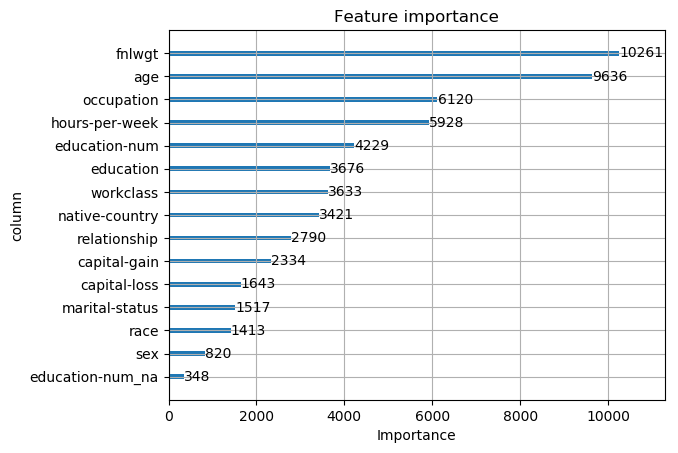
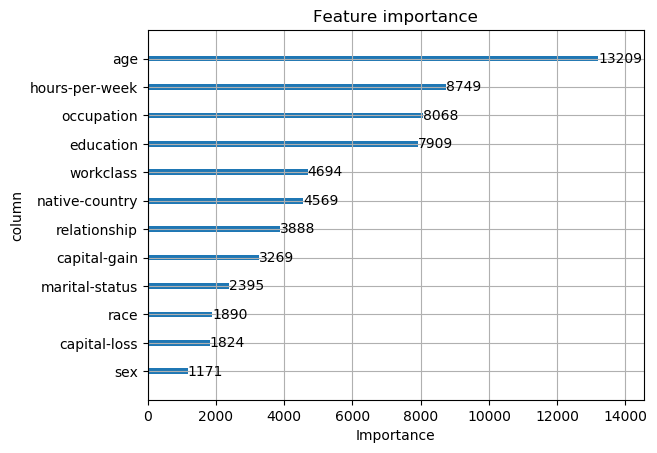
importance update

diff --git a/code/chapter4/interp.py b/code/chapter4/interp.py
@@ -33,10 +33,11 @@ _,valid_ids = next(kf.split(df))
 data = (src.split_by_idx(valid_ids).label_from_df(cols=dep_var).databunch(bs=512))
 learn = tabular_learner(data, layers=[200,200], metrics=accuracy)
 wd=1e-5
-lr = request_lr(learn)
+#lr = request_lr(learn)
+lr=3e-2
 learn.fit_one_cycle(10, lr)#, wd=wd)
-# learn.save('tmp')
-learn.load('tmp')
+learn.save('tmp')
+# learn.load('tmp')
 
 def nn_predict_from_df(X):
     bs=512
@@ -58,6 +59,7 @@ def nn_predict_from_df(X):
 
 def score(X, y):
     y_pred = nn_predict_from_df(X)
+    #pdb.set_trace()
     return log_loss(y, y_pred)
 
 val_x = np.concatenate([learn.data.valid_ds.codes, learn.data.valid_ds.conts],1)
@@ -72,8 +74,6 @@ perm_df = pd.DataFrame({'column': learn.data.train_ds.cat_names+learn.data.train
                         'importance': feature_importances, 'std_error': importance_errors})
 perm_df = perm_df.sort_values('importance', ascending=False)
 perm_df.to_csv('../writing/figures/perm_importance.csv', index=None)
-
-pdb.set_trace()
 
 perm_df['importance'] *= -1
 ax = perm_df.plot.barh(x='column', y='importance', color='blue', alpha=0.6, legend=False, yerr='std_error')

diff --git a/code/chapter4/interp_kd.py b/code/chapter4/interp_kd.py
@@ -34,15 +34,16 @@ _,valid_ids = next(kf.split(df))
 
 data = (src.split_by_idx(valid_ids).label_from_df(cols=dep_var).databunch(bs=512))
 learn = tabular_learner(data, layers=[200,200], metrics=accuracy)
-wd=1e-5
-# lr = request_lr(learn, wd=wd)
-# learn.fit_one_cycle(10, lr, wd=wd)
-# learn.save('tmp')
-learn.load('tmp')
+# wd=1e-5
+lr = request_lr(learn)#, wd=wd)
+learn.fit_one_cycle(10, lr)#, wd=wd)
+learn.save('tmp')
+# learn.load('tmp')
 
 def nn_predict_from_df(X):
     bs=512
     m=learn.model.eval()
+    m.to('cpu')
     n_cats=len(learn.data.valid_ds.cat_names)
     X_cats = tensor(X[:,:n_cats].astype(np.int64))
     X_conts= tensor(X[:, n_cats:]).float()
@@ -79,4 +80,4 @@ model = XGBRegressor(objective='binary:logistic', n_estimators=500, max_depth=10
 model.fit(train_x, train_y, verbose=True, eval_set=[(val_x, val_y)])
 plot_importance(model, xlabel="Importance", ylabel='column')
 plt.savefig('../writing/figures/xgb_importance.png', bbox_inches='tight')
-plt.show()
+# plt.show()
